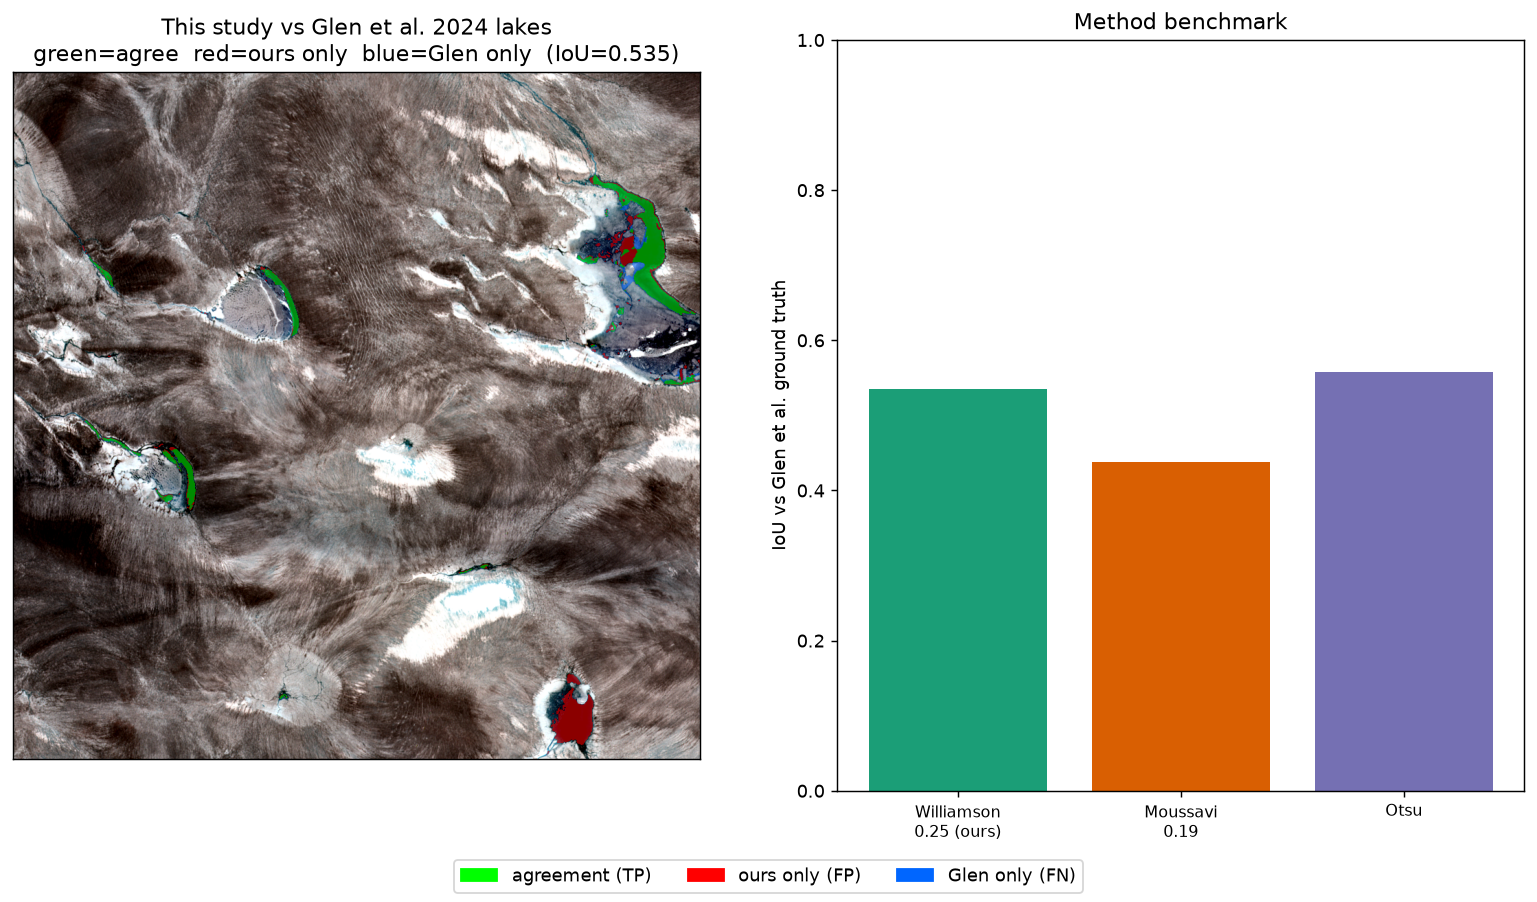
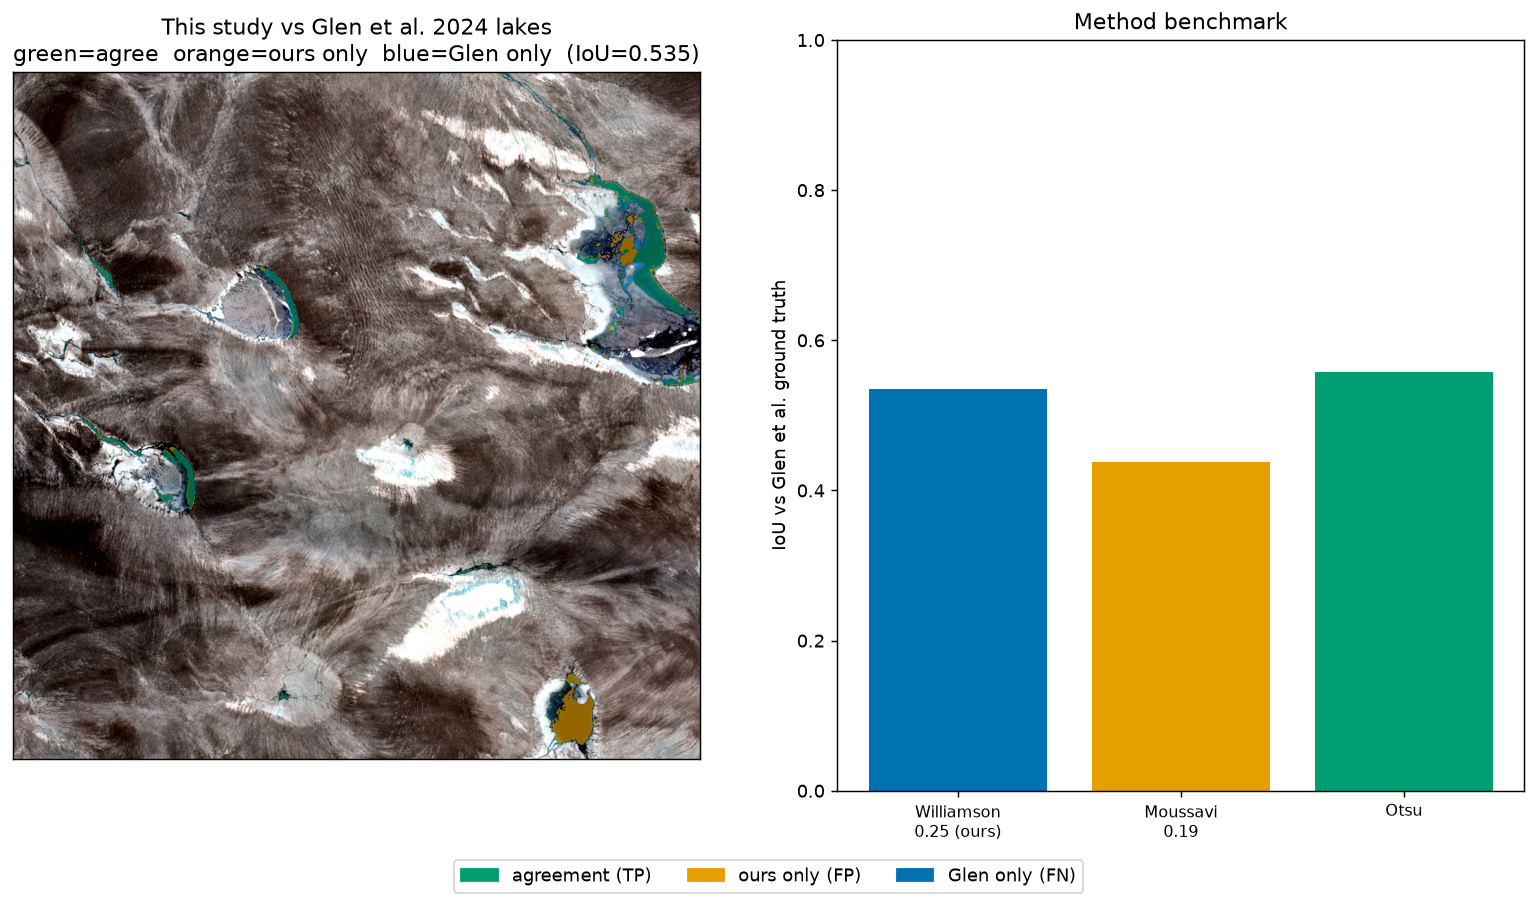
Use the Okabe-Ito colour-blind-safe palette in the validation figure
Replace the red/green agreement colours (the worst pairing for red-green colour
blindness) with the Okabe-Ito palette: green=agree, orange=ours only, blue=Glen
only. Distinguishable for deuteranopia/protanopia/tritanopia.

diff --git a/notebooks/05_validation.py b/notebooks/05_validation.py
@@ -172,27 +172,32 @@ for b, role in (("B02", "blue"), ("B03", "green"), ("B04", "red")):
         bands[b] = src.read(1).astype("float32")
 tci = np.dstack([stretch(bands["B04"]), stretch(bands["B03"]), stretch(bands["B02"])])
 
+# Okabe-Ito colour-blind-safe palette (distinguishable for all common colour
+# vision deficiencies) — replaces the red/green agreement colours.
+OI_AGREE = (0.0, 0.620, 0.451)   # #009E73 bluish green — agreement (TP)
+OI_OURS = (0.902, 0.624, 0.0)    # #E69F00 orange — ours only (FP)
+OI_GLEN = (0.0, 0.447, 0.698)    # #0072B2 blue — Glen only (FN)
+
 pred = ndwi_s > 0.25
 agree = np.zeros((H, W, 4), dtype=float)
-agree[pred & gt_mask] = (0, 1, 0, 0.55)        # TP green
-agree[pred & ~gt_mask] = (1, 0, 0, 0.55)       # FP (ours only) red
-agree[~pred & gt_mask] = (0, 0.4, 1, 0.55)     # FN (Glen only) blue
+agree[pred & gt_mask] = (*OI_AGREE, 0.65)      # TP
+agree[pred & ~gt_mask] = (*OI_OURS, 0.65)      # FP (ours only)
+agree[~pred & gt_mask] = (*OI_GLEN, 0.65)      # FN (Glen only)
 
 fig, ax = plt.subplots(1, 2, figsize=(15, 7.5))
 ax[0].imshow(tci); ax[0].imshow(agree)
 ax[0].set_title("This study vs Glen et al. 2024 lakes\n"
-                f"green=agree  red=ours only  blue=Glen only  (IoU={summary['this_study_vs_lakes']['iou']})")
-extent = [bounds.left, bounds.right, bounds.bottom, bounds.top]
-ax[1].bar(range(len(table)), table["iou"], color=["#1b9e77", "#d95f02", "#7570b3"])
+                f"green=agree  orange=ours only  blue=Glen only  (IoU={summary['this_study_vs_lakes']['iou']})")
+ax[1].bar(range(len(table)), table["iou"], color=[OI_GLEN, OI_OURS, OI_AGREE])
 ax[1].set_xticks(range(len(table)))
 ax[1].set_xticklabels(["Williamson\n0.25 (ours)", "Moussavi\n0.19", "Otsu"], fontsize=9)
 ax[1].set_ylabel("IoU vs Glen et al. ground truth"); ax[1].set_ylim(0, 1)
 ax[1].set_title("Method benchmark")
 for a in (ax[0],):
     a.set_xticks([]); a.set_yticks([])
-fig.legend(handles=[Patch(color=(0, 1, 0), label="agreement (TP)"),
-                    Patch(color=(1, 0, 0), label="ours only (FP)"),
-                    Patch(color=(0, 0.4, 1), label="Glen only (FN)")],
+fig.legend(handles=[Patch(color=OI_AGREE, label="agreement (TP)"),
+                    Patch(color=OI_OURS, label="ours only (FP)"),
+                    Patch(color=OI_GLEN, label="Glen only (FN)")],
            loc="lower center", ncol=3)
 fig.savefig(FIG / "validation_groundtruth.png", dpi=130, bbox_inches="tight")
 plt.close(fig)

diff --git a/results/results.md b/results/results.md
@@ -55,8 +55,8 @@ independent, published dataset (run with `pixi run snakemake validation --cores 
 :width: 100%
 
 Left: our detection vs the Glen et al. (2024) lake outlines (green = agree,
-red = ours only, blue = Glen only). Right: IoU of three thresholding methods
-against the published lakes.
+orange = ours only, blue = Glen only — Okabe–Ito colour-blind-safe palette).
+Right: IoU of three thresholding methods against the published lakes.
 ```
 
 **Ground truth — Glen et al. (2024)** ([Zenodo 10.5281/zenodo.11645884](https://doi.org/10.5281/zenodo.11645884)),